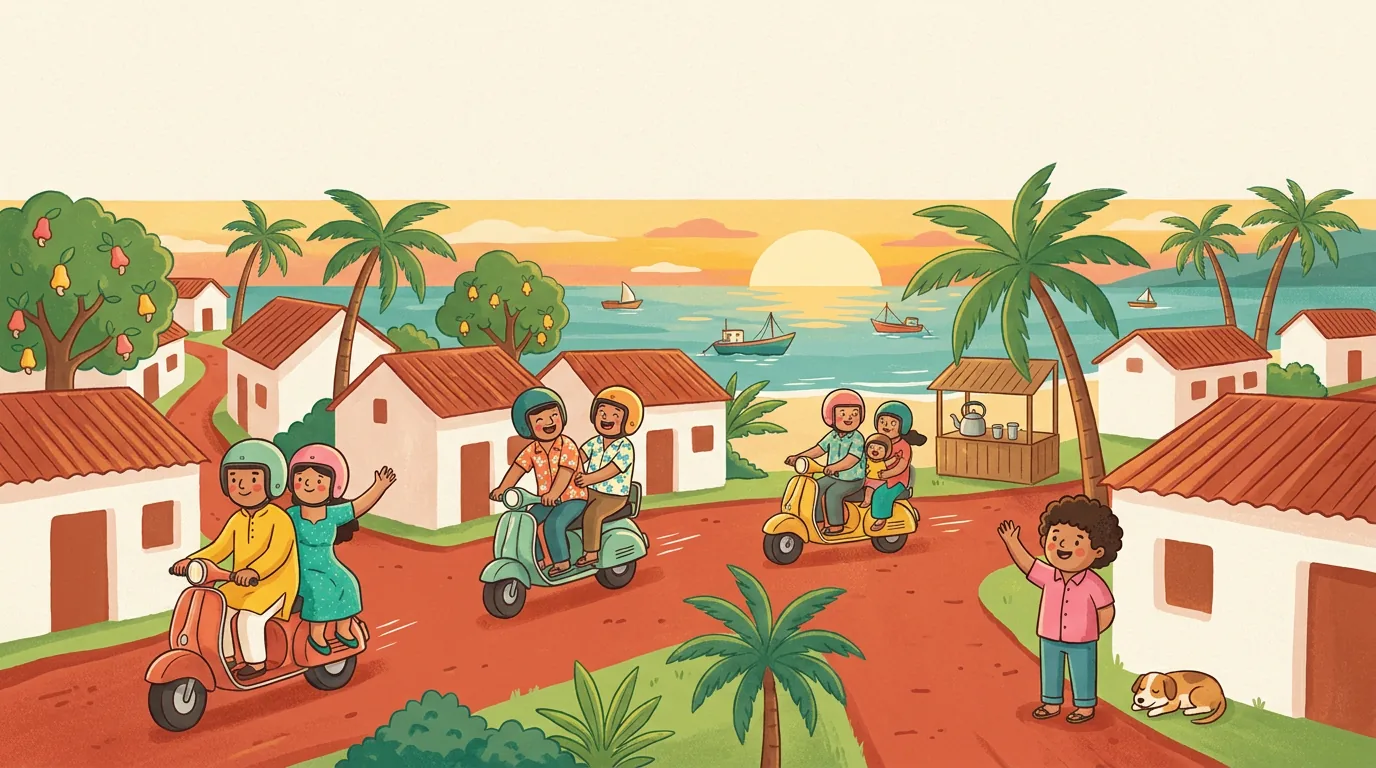
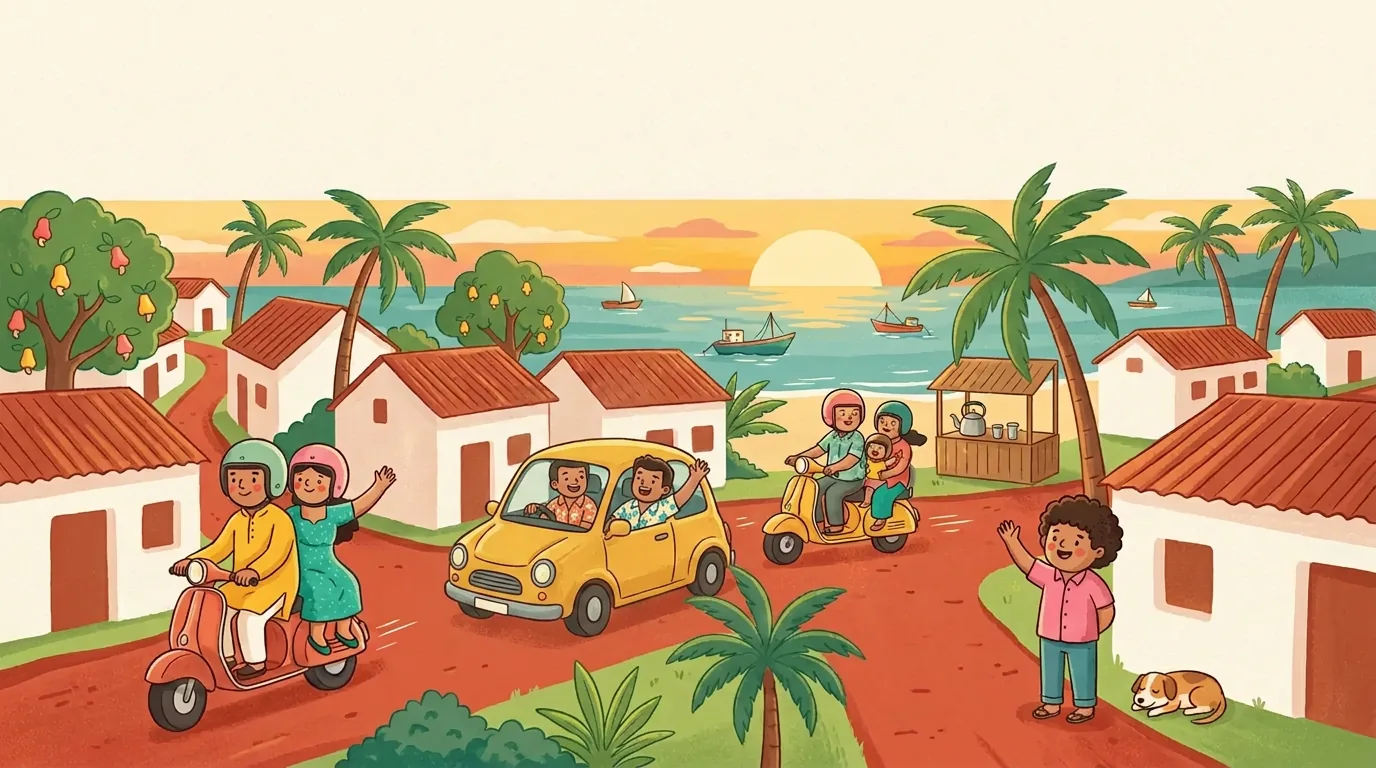
feat: cars in the hero and pilot paintings (Gemini edits of the originals)
paint.py gains an edit mode (EDITS): it sends an existing picture with an
instruction. Scooties still outnumber cars.

diff --git a/tools/paint/paint.py b/tools/paint/paint.py
@@ -2,6 +2,7 @@
 
     secrets run -- python3 tools/paint/paint.py hero pilot
     secrets run -- python3 tools/paint/paint.py        # every subject
+    secrets run -- python3 tools/paint/paint.py edit:hero-cars   # edit an existing picture (EDITS)
 
 Writes tools/paint/out/<name>-<n>.png (git-ignored). A person picks one and
 copies it into public/art/. GEMINI_API_KEY is a Vertex key, read from the
@@ -60,6 +61,22 @@ SUBJECTS = {
         "bunch of marigolds, a cold drink, a hand-made medal on a ribbon. Plain cream background."),
 }
 
+# Edits of a picture already in public/art: (source, aspect ratio, instruction). Output name is the key.
+EDITS = {
+    "hero-cars": ("hero.webp", "16:9",
+        "Edit this illustration, keeping its style, palette, composition, lanes and characters exactly as they "
+        "are. Replace one or two of the scooters with small, cute, rounded little cars (a tiny mint or yellow "
+        "hatchback, windows down, a driver and one or two smiling passengers waving out of the window), driving "
+        "along the red lanes. Scooters must still clearly outnumber the cars: most rides are scooters. Keep the "
+        "calm empty sky in the top third. Absolutely no text, letters, numbers, logos or brand marks."),
+    "pilot-cars": ("pilot.webp", "1:1",
+        "Edit this illustration, keeping the scooter rider exactly as they are, in the same style and palette. "
+        "Behind them, slightly smaller, add a cute rounded little car (sunny yellow) with its driver leaning out "
+        "of the window and waving, the passenger door open invitingly. The scooter stays the hero in front; the "
+        "car is a friendly sidekick. Plain cream background, small soft shadows. Absolutely no text, letters, "
+        "numbers, logos or brand marks."),
+}
+
 
 def address():
     key = os.environ["GEMINI_API_KEY"]
@@ -71,9 +88,17 @@ def address():
 
 
 def paint(name, n):
-    ratio, subject = SUBJECTS[name]
+    if name.startswith("edit:"):
+        name = name[5:]
+        src, ratio, instruction = EDITS[name]
+        with open(os.path.join(HERE, "..", "..", "public", "art", src), "rb") as f:
+            image = base64.b64encode(f.read()).decode()
+        parts = [{"inlineData": {"mimeType": "image/webp", "data": image}}, {"text": instruction}]
+    else:
+        ratio, subject = SUBJECTS[name]
+        parts = [{"text": STYLE + subject}]
     body = {
-        "contents": [{"role": "user", "parts": [{"text": STYLE + subject}]}],
+        "contents": [{"role": "user", "parts": parts}],
         "generationConfig": {
             "responseModalities": ["TEXT", "IMAGE"],
             "imageConfig": {"aspectRatio": ratio},
